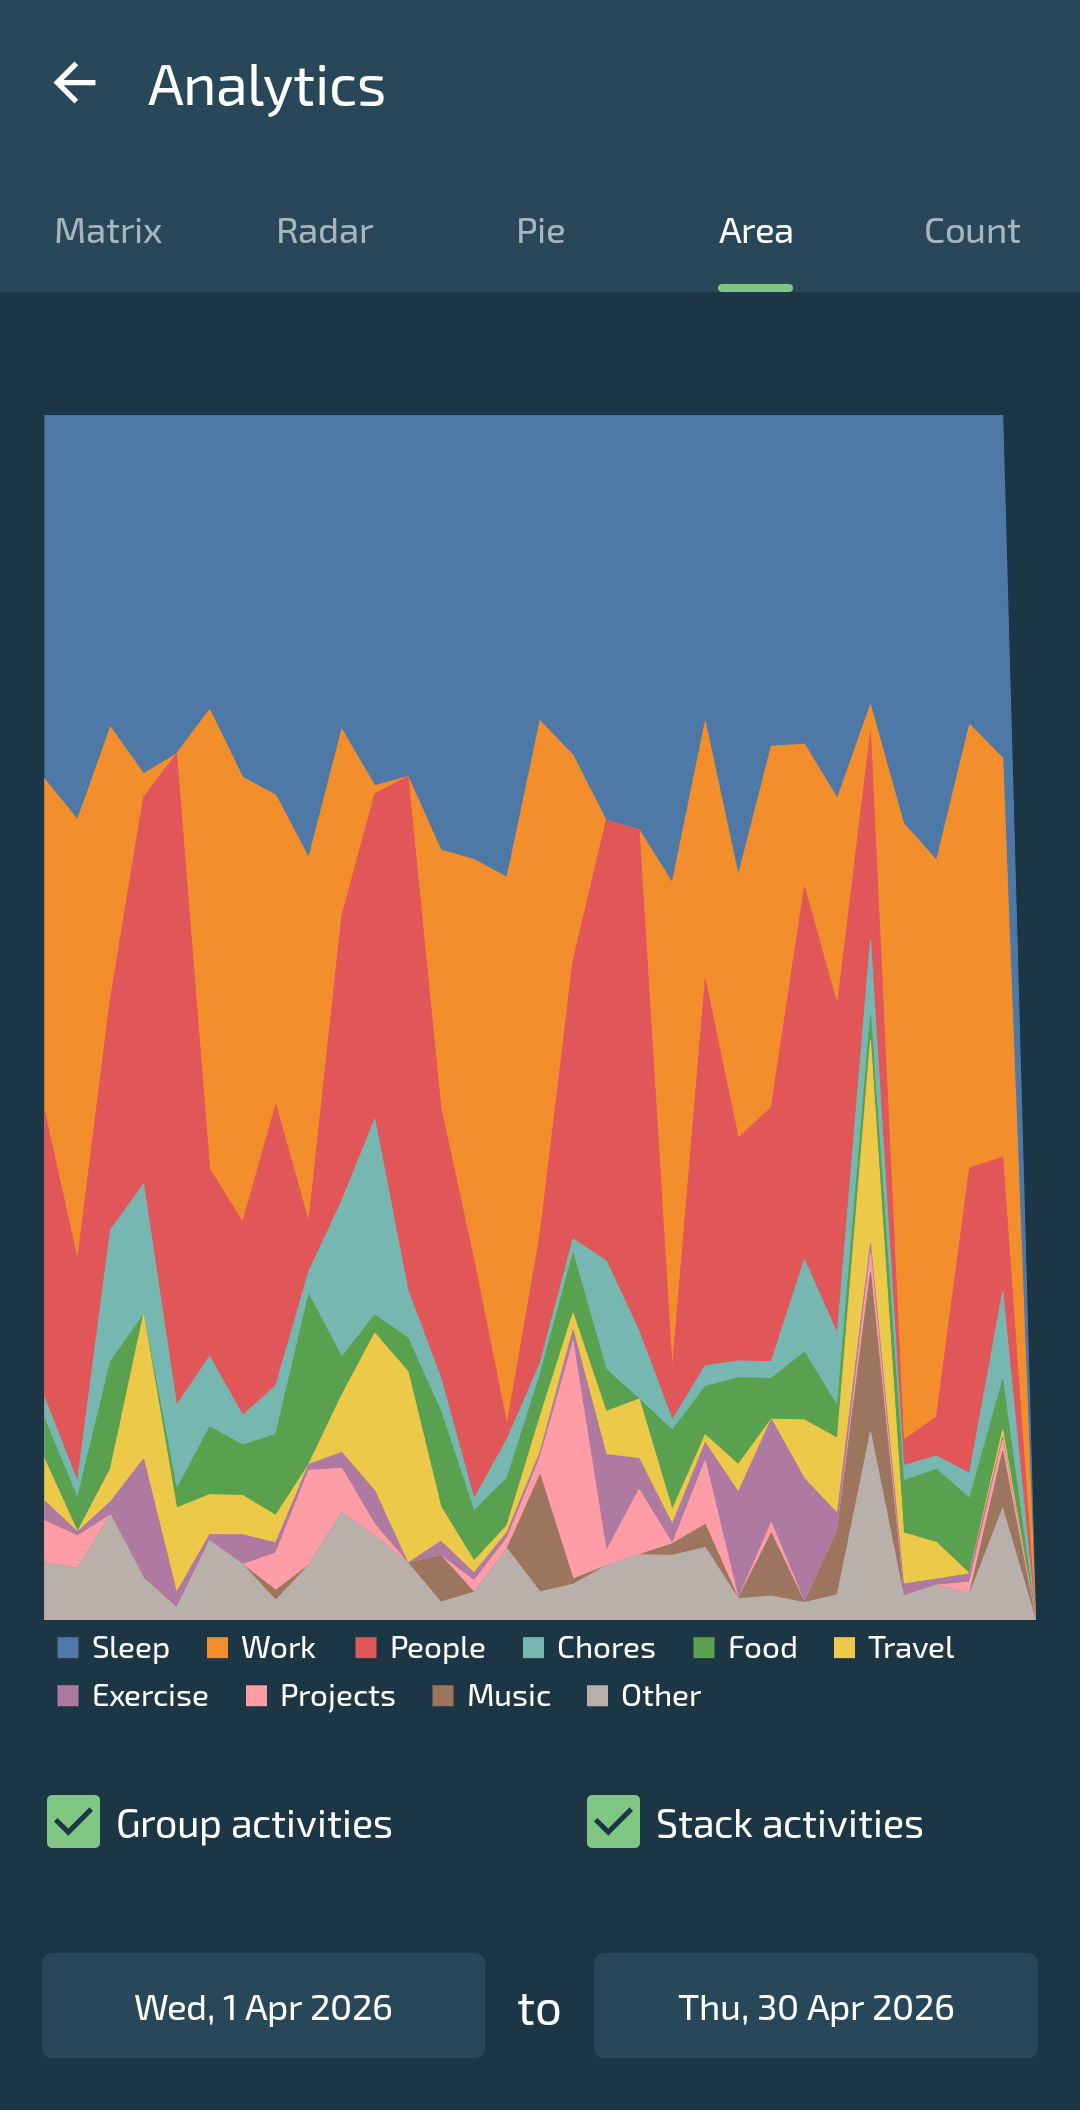
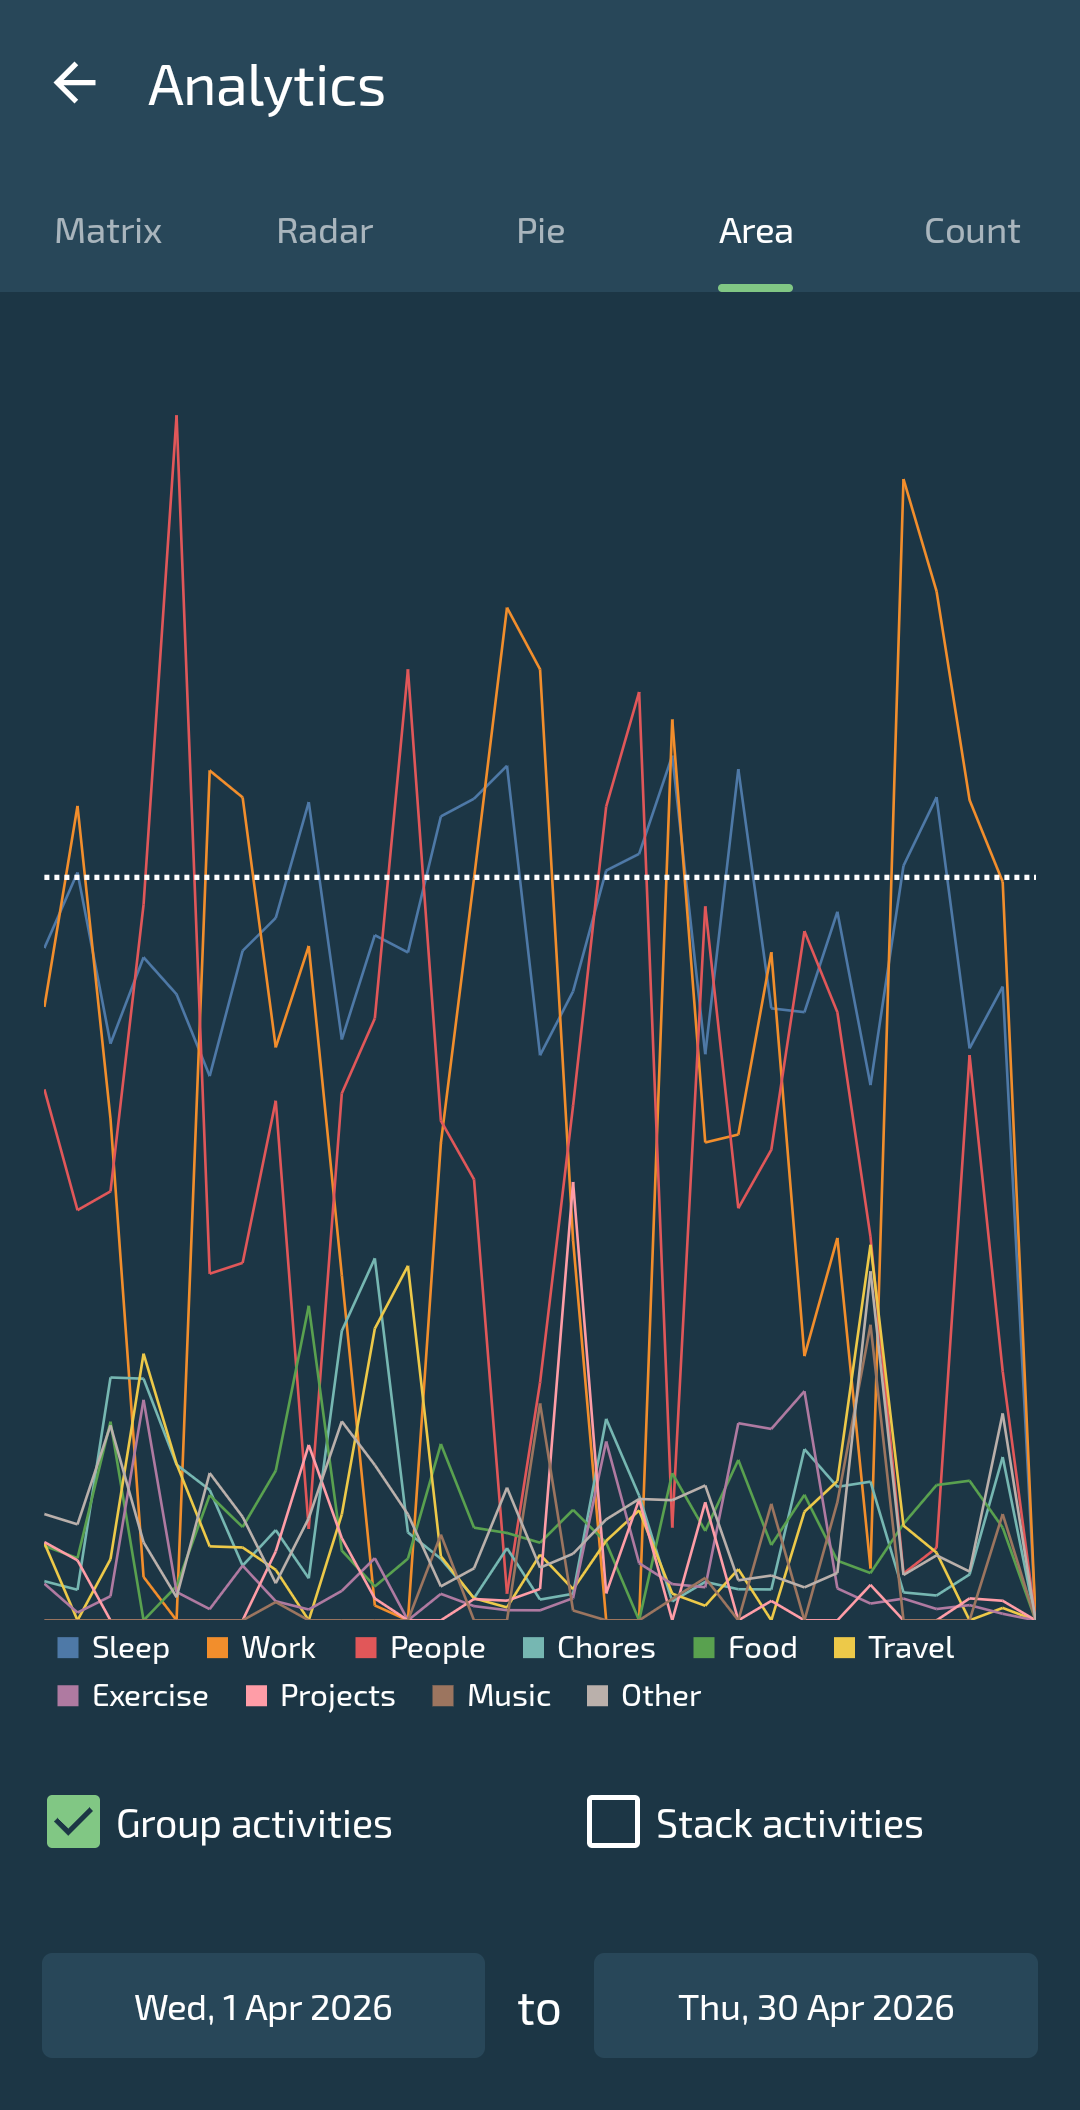
Replace area chart screenshot with line chart

diff --git a/README.md b/README.md
@@ -6,7 +6,7 @@ All data is saved to a `chronofile.tsv` file on your device. This app is 100% of
 
 <p><a href="https://play.google.com/store/apps/details?id=com.chaidarun.chronofile"><img alt="Get it on Google Play" src="https://github.com/user-attachments/assets/9e4f0788-8bab-420e-a374-5d4ba8814b91" height="50px" style="vertical-align:top" /></a>&nbsp;&nbsp;&nbsp;&nbsp;<a href="https://apt.izzysoft.de/fdroid/index/apk/com.chaidarun.chronofile"><img alt="Get it on IzzyOnDroid" src="https://gitlab.com/IzzyOnDroid/repo/-/raw/master/assets/IzzyOnDroidButtonGreyBorder_nofont.png" height="50px" /></a></p>
 
-<img alt="Timeline" src="https://raw.githubusercontent.com/artnc/chronofile/master/fastlane/metadata/android/en-US/images/phoneScreenshots/01.png" width="32%"> <img alt="Map" src="https://raw.githubusercontent.com/artnc/chronofile/master/fastlane/metadata/android/en-US/images/phoneScreenshots/02.png" width="32%"> <img alt="Correlation matrix" src="https://raw.githubusercontent.com/artnc/chronofile/master/fastlane/metadata/android/en-US/images/phoneScreenshots/03.png" width="32%"> <img alt="Radar chart" src="https://raw.githubusercontent.com/artnc/chronofile/master/fastlane/metadata/android/en-US/images/phoneScreenshots/04.png" width="32%"> <img alt="Pie chart" src="https://raw.githubusercontent.com/artnc/chronofile/master/fastlane/metadata/android/en-US/images/phoneScreenshots/05.png" width="32%"> <img alt="Area chart" src="https://raw.githubusercontent.com/artnc/chronofile/master/fastlane/metadata/android/en-US/images/phoneScreenshots/06.png" width="32%">
+<img alt="Timeline" src="https://raw.githubusercontent.com/artnc/chronofile/master/fastlane/metadata/android/en-US/images/phoneScreenshots/01.png" width="32%"> <img alt="Map" src="https://raw.githubusercontent.com/artnc/chronofile/master/fastlane/metadata/android/en-US/images/phoneScreenshots/02.png" width="32%"> <img alt="Correlation matrix" src="https://raw.githubusercontent.com/artnc/chronofile/master/fastlane/metadata/android/en-US/images/phoneScreenshots/03.png" width="32%"> <img alt="Radar chart" src="https://raw.githubusercontent.com/artnc/chronofile/master/fastlane/metadata/android/en-US/images/phoneScreenshots/04.png" width="32%"> <img alt="Pie chart" src="https://raw.githubusercontent.com/artnc/chronofile/master/fastlane/metadata/android/en-US/images/phoneScreenshots/05.png" width="32%"> <img alt="Line chart" src="https://raw.githubusercontent.com/artnc/chronofile/master/fastlane/metadata/android/en-US/images/phoneScreenshots/06.png" width="32%">
 
 I used this project to learn Kotlin and relearn Android development before I began work on the [Duolingo app](https://play.google.com/store/apps/details?id=com.duolingo), which is [now 100% Kotlin](https://blog.duolingo.com/migrating-duolingos-android-app-to-100-kotlin/)!
 